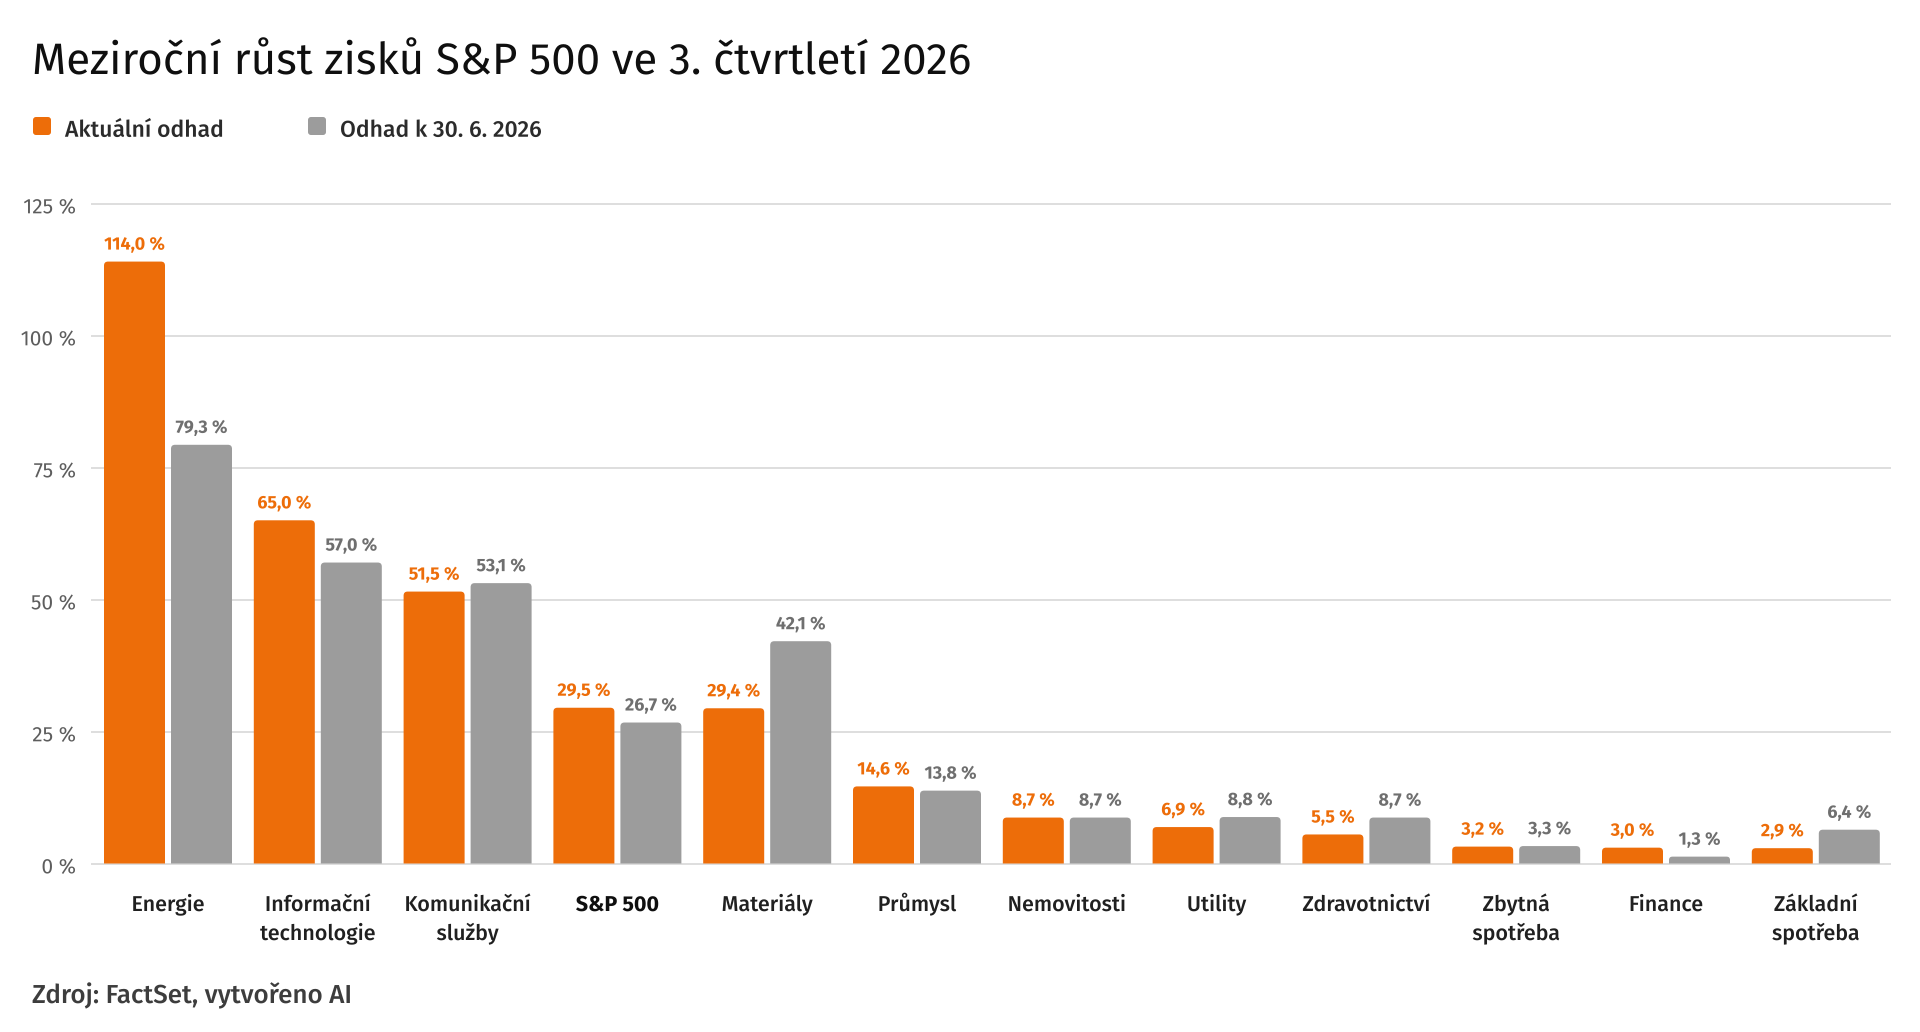
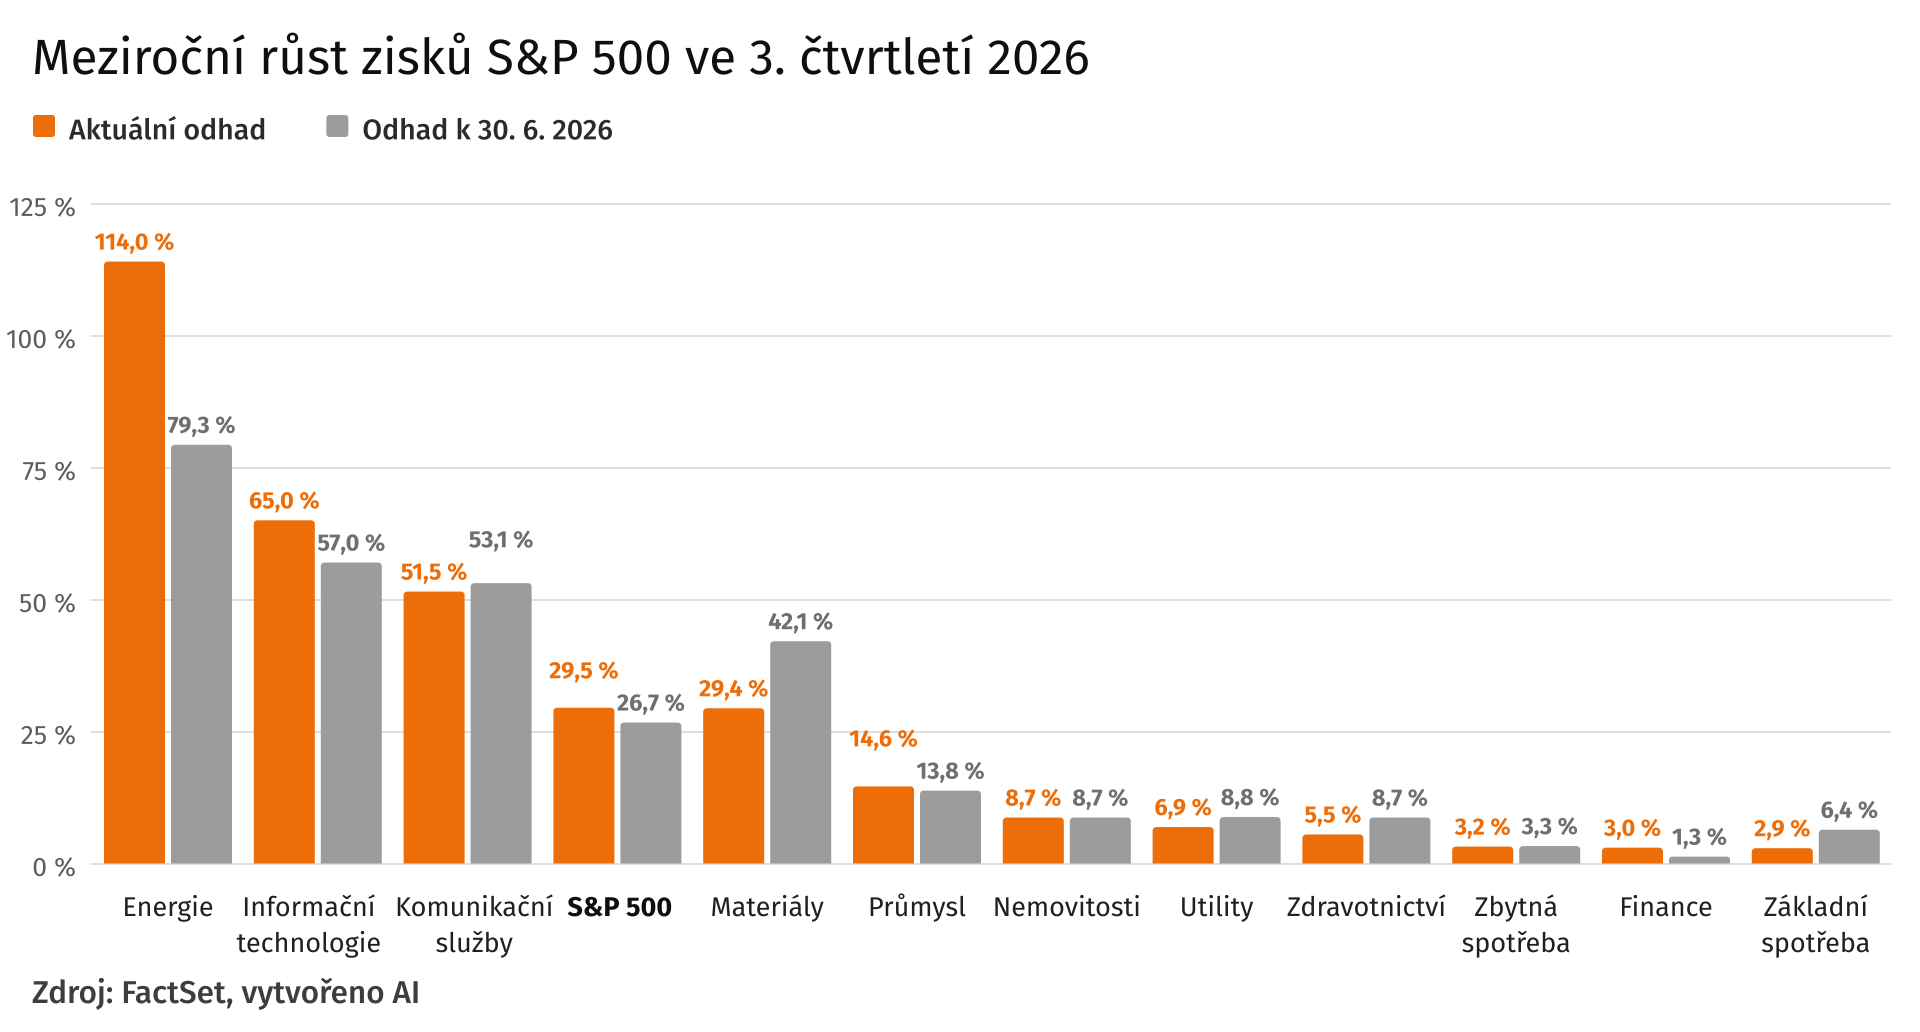
Graf zisků S&P 500 (ZFPA): všechna písma o 2 body větší
Popisky hodnot ani kategorií se při větším písmu nepřekrývají: u dvojice
sloupců se popisek vyššího zvedne nad nižší, sousední dlouhé kategorie
se mírně odsunou.

Claude-Session: https://claude.ai/code/session_01A8r6cxYv4z3RaLJthvcQAS

diff --git a/vystupy/grafy/2026-10-14-zisky-sp500-3q2026-zfpa.py b/vystupy/grafy/2026-10-14-zisky-sp500-3q2026-zfpa.py
@@ -70,8 +70,16 @@ ax.set_ylim(H, 0)
 ax.axis("off")
 
 
+VETSI = 2  # všechna písma o 2 body větší než v podkladu (čitelnost)
+
+
 def text(x, y, s, px, barva, font, **kw):
-    ax.text(x, y, s, fontsize=px / PT, color=barva, fontproperties=font, **kw)
+    """px = velikost písma v podkladovém grafu; vykreslí se o VETSI bodů větší."""
+    return ax.text(x, y, s, fontsize=px / PT + VETSI, color=barva, fontproperties=font, **kw)
+
+
+def sirka_textu(t):
+    return t.get_window_extent(renderer=fig.canvas.get_renderer()).width
 
 
 def sloupec(x, y_vrch, sirka, vyska, barva, r=4):
@@ -91,10 +99,12 @@ def cislo(v, mista=1):
 
 # nadpis, legenda
 text(32, 74, "Meziroční růst zisků S&P 500 ve 3. čtvrtletí 2026", 44, NADPIS, REGULAR, va="baseline")
-for x, barva, popis in ((33, ORANZOVA, "Aktuální odhad"), (308, SEDA, "Odhad k 30. 6. 2026")):
-    ax.add_patch(FancyBboxPatch((x, 117), 18, 18, boxstyle="round,pad=0,rounding_size=3",
+x = 33
+for barva, popis in ((ORANZOVA, "Aktuální odhad"), (SEDA, "Odhad k 30. 6. 2026")):
+    ax.add_patch(FancyBboxPatch((x, 115), 22, 22, boxstyle="round,pad=0,rounding_size=3",
                                 facecolor=barva, edgecolor="none"))
-    text(x + 32, 126, popis, 23, LEGENDA, MEDIUM, va="center_baseline")
+    t = text(x + 36, 126, popis, 23, LEGENDA, MEDIUM, va="center_baseline")
+    x += 36 + sirka_textu(t) + 60
 
 # osa y a mřížka: 0 % na y = 863, 25 % = 132 px
 NULA, KROK_PX = 863.5, 132
@@ -106,18 +116,43 @@ for i, hodnota in enumerate(range(0, 126, 25)):
 
 # sloupce: dvojice 61 px + mezera 6 px, rozteč 150 px, první začíná na x = 104
 SIRKA, MEZERA, ROZTEC, START = 61, 6, 149.8, 104
+popisky_kategorii = []
 for k, (kat, a, c) in enumerate(zip(kategorie, aktualni, cerven)):
     x0 = START + k * ROZTEC
+    popisky = []
     for x, hodnota, barva, popisek in ((x0, a, ORANZOVA, ORANZOVA), (x0 + SIRKA + MEZERA, c, SEDA, SEDA_POPISEK)):
         vyska = hodnota / 25 * KROK_PX
         sloupec(x, NULA - vyska, SIRKA, vyska, barva)
-        text(x + SIRKA / 2, NULA - vyska - 12, cislo(hodnota), 18, popisek, BOLD, ha="center", va="baseline", zorder=3)
+        popisky.append([x + SIRKA / 2, NULA - vyska - 12, cislo(hodnota), popisek])
+    # popisky hodnot: větší písmo je širší než sloupec – když by se dva vedle sebe překrývaly,
+    # zvedni popisek vyššího sloupce nad popisek nižšího (oba zůstanou u svých sloupců)
+    (xl, yl, tl, cl), (xp, yp, tp, cp) = popisky
+    t_l = text(xl, yl, tl, 18, cl, BOLD, ha="center", va="baseline", zorder=3)
+    t_p = text(xp, yp, tp, 18, cp, BOLD, ha="center", va="baseline", zorder=3)
+    if (sirka_textu(t_l) + sirka_textu(t_p)) / 2 > xp - xl - 4:
+        vyska_textu = t_l.get_window_extent(renderer=fig.canvas.get_renderer()).height + 4
+        if abs(yl - yp) < vyska_textu:
+            if yl <= yp:
+                t_l.set_y(yp - vyska_textu)
+            else:
+                t_p.set_y(yl - vyska_textu)
     stred = x0 + SIRKA + MEZERA / 2
     je_index = kat == "S&P 500"
     radky = kat.split(" ", 1) if (" " in kat and len(kat) > 10 and not je_index) else [kat]
-    for j, radek in enumerate(radky):
-        text(stred, 911 + j * 29, radek, 21.5, NADPIS if je_index else TEXT, BOLD if je_index else MEDIUM,
-             ha="center", va="baseline")
+    texty = [text(stred, 916 + j * 36, radek, 21.5, NADPIS if je_index else TEXT, BOLD if je_index else REGULAR,
+                  ha="center", va="baseline") for j, radek in enumerate(radky)]
+    popisky_kategorii.append([stred, max(sirka_textu(t) for t in texty), texty])
+
+# popisky kategorií: když se dva sousední překrývají, odsuň je od sebe (min. mezera 14 px)
+for _ in range(5):
+    for levy, pravy in zip(popisky_kategorii, popisky_kategorii[1:]):
+        prekryv = (levy[0] + levy[1] / 2 + 14) - (pravy[0] - pravy[1] / 2)
+        if prekryv > 0:
+            levy[0] -= prekryv / 2
+            pravy[0] += prekryv / 2
+for stred, _, texty in popisky_kategorii:
+    for t in texty:
+        t.set_x(stred)
 
 # zdroj
 text(32, 1003, "Zdroj: FactSet, vytvořeno AI", 26, ZDROJ, MEDIUM, va="baseline")
